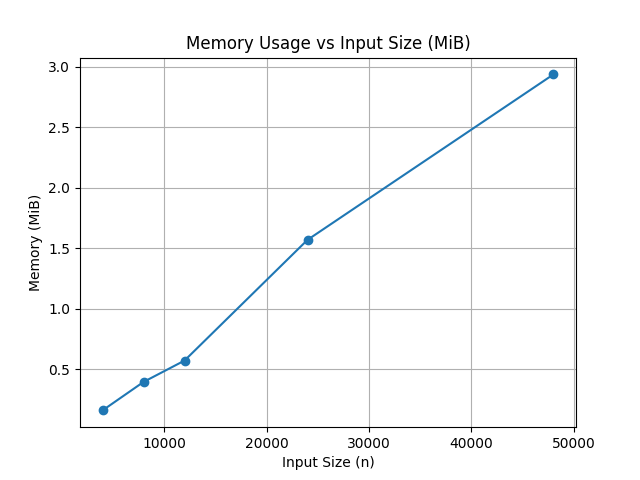
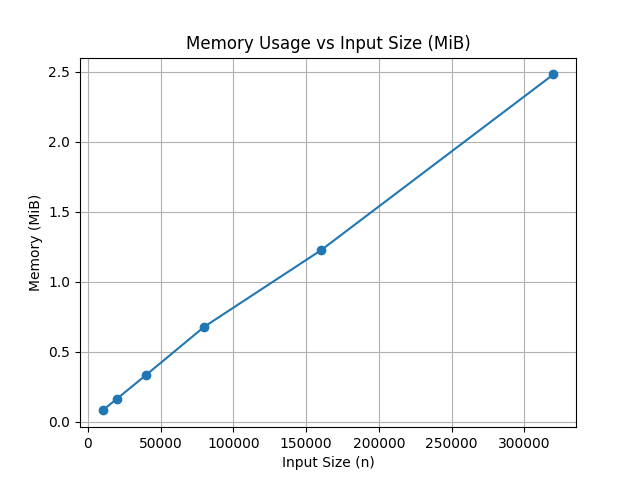
Complexity Test

diff --git a/Complexity-Verification/heap_sort.py b/Complexity-Verification/heap_sort.py
@@ -1,0 +1,37 @@
+import random
+
+def heap_sort_gen_rnd_list(n):
+    arr = [random.randint(0, 100) for _ in range(n)]
+    heapSort(arr)
+
+def heapify(arr, n, i):
+    largest = i  # 루트를 최대값으로 가정
+    l = 2 * i + 1  # 왼쪽 자식
+    r = 2 * i + 2  # 오른쪽 자식
+
+    # 왼쪽 자식이 루트보다 크다면
+    if l < n and arr[l] > arr[largest]:
+        largest = l
+
+    # 오른쪽 자식이 현재 최대값보다 크다면
+    if r < n and arr[r] > arr[largest]:
+        largest = r
+
+    # 최대값이 루트가 아니라면
+    if largest != i:
+        arr[i], arr[largest] = arr[largest], arr[i]  # 교환
+
+        # 교환된 루트에 대해 다시 힙 구성
+        heapify(arr, n, largest)
+
+def heapSort(arr):
+    n = len(arr)
+
+    # 초기 최대 힙 구성
+    for i in range(n // 2 - 1, -1, -1):
+        heapify(arr, n, i)
+
+    # 하나씩 원소를 꺼내어 다시 최대 힙 구성
+    for i in range(n-1, 0, -1):
+        arr[i], arr[0] = arr[0], arr[i]  # 루트와 마지막 요소 교환
+        heapify(arr, i, 0)

diff --git a/Complexity-Verification/quick_sort_inplace.py b/Complexity-Verification/quick_sort_inplace.py
@@ -1,0 +1,36 @@
+import random
+
+def quick_sort_gen_rnd_list(n):
+    arr = [random.randint(0, 100) for _ in range(n)]
+    quick_sort(arr, 0, n - 1)
+
+def quick_sort(arr, left, right):
+    while left < right:
+        # 피벗: 중간값 선택
+        mid = (left + right) // 2
+        arr[left], arr[mid] = arr[mid], arr[left]
+        pivot = arr[left]
+
+        i = left + 1
+        j = right
+
+        # Hoare 파티셔닝
+        while True:
+            while i <= j and arr[i] <= pivot:
+                i += 1
+            while i <= j and arr[j] > pivot:
+                j -= 1
+            if i > j:
+                break
+            arr[i], arr[j] = arr[j], arr[i]
+
+        arr[left], arr[j] = arr[j], arr[left]  # 피벗과 arr[j] 교환하여 원래 위치로 복귀
+
+        # 재귀 대신 작은 쪽 먼저 호출 → 큰 쪽은 while 반복
+        if j - left < right - j:
+            quick_sort(arr, left, j - 1)
+            left = j + 1
+        else:
+            quick_sort(arr, j + 1, right)
+            right = j - 1
+    return arr

diff --git a/Complexity-Verification/complexity-check.py b/Complexity-Verification/complexity-check.py
@@ -13,7 +13,10 @@ import tracemalloc  # for memory allocation tracing (docs.python.org)
 import argparse  # for CLI interface (docs.python.org)
 import matplotlib.pyplot as plt  # for plotting results (matplotlib.org)
 
-from quick_sort import quick_sort_gen_rnd_list
+# from quick_sort import quick_sort_gen_rnd_list
+# from radix_sort import radix_sort_gen_rnd_list
+# from quick_sort_inplace import quick_sort_gen_rnd_list
+from heap_sort import heap_sort_gen_rnd_list 
 
 def measure(func, input_sizes):
     """
@@ -98,7 +101,7 @@ def main():
     #                 sieve[i] = False
     #     return [i for i, prime in enumerate(sieve) if prime and i >= 2]
 
-    times, mem_mib, mem_kib = measure(quick_sort_gen_rnd_list, input_sizes)
+    times, mem_mib, mem_kib = measure(heap_sort_gen_rnd_list, input_sizes)
     plot_results(input_sizes, times, mem_mib, mem_kib)
 
 

diff --git a/Complexity-Verification/radix_sort.py b/Complexity-Verification/radix_sort.py
@@ -1,0 +1,39 @@
+import random
+
+def radix_sort_gen_rnd_list(n):
+    arr = [random.randint(0, 100) for _ in range(n)]
+    radix_sort(arr)
+
+def counting_sort(arr, digit):
+    n = len(arr)
+  
+    output = [0] * (n)
+    count = [0] * (10)
+    
+    for i in range(0, n):
+        index = int(arr[i] / digit) 
+        count[(index) % 10] += 1
+ 
+    for i in range(1, 10):
+        count[i] += count[i - 1]  
+    
+    i = n - 1
+
+    while i >= 0:
+        index = int(arr[i] / digit)
+        output[count[(index) % 10 ] - 1] = arr[i]
+        count[(index) % 10 ] -= 1
+        i -= 1
+
+    for i in range(0, len(arr)): 
+        arr[i] = output[i]
+ 
+def radix_sort(arr):
+
+    maxValue = max(arr)
+
+    digit = 1
+
+    while int(maxValue / digit) > 0: 
+        counting_sort(arr, digit)
+        digit *= 10
